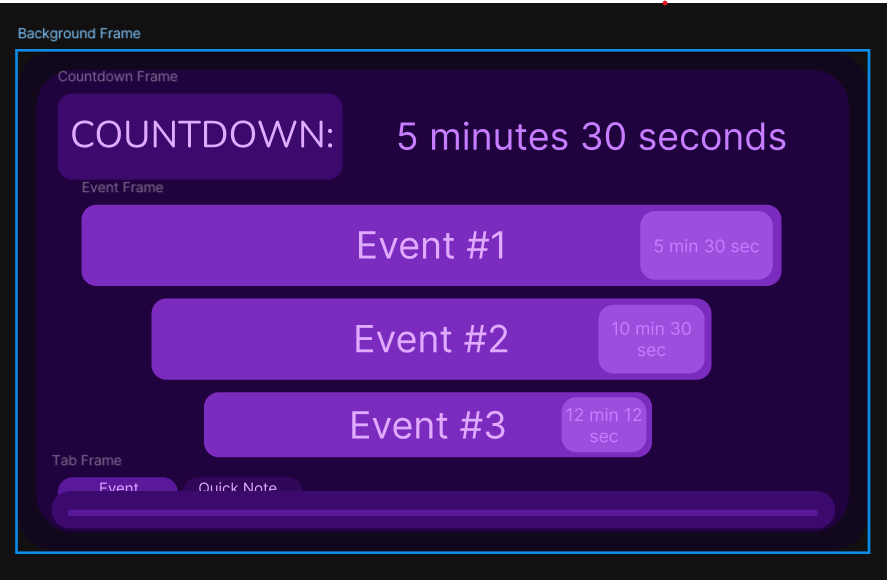
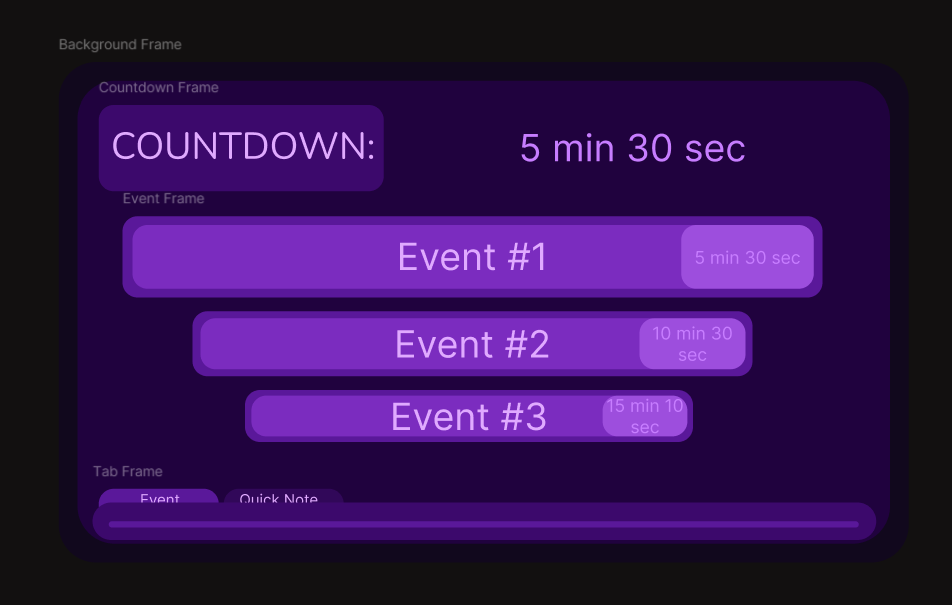
Updated images

diff --git a/src/gui/app.py b/src/gui/app.py
@@ -4,6 +4,7 @@ from widgets.frames import *
 from widgets.tabs import *
 from widgets.labels import *
 from widgets.events import *
+from widgets.buttons import EventButton
 
 # settings 
 set_default_appearance_mode()
@@ -58,25 +59,24 @@ class App(customtkinter.CTk):
         self.timer_label = TimerLabel(master=self.background_frame, text="5 Mins 30 Sec", text_color="#C77DFF")
         self.timer_label.place(x=350, y=30)
 
-        self.top_event_label = EventLabel(master=self.top_event_frame, text="Event #1")
-        self.top_event_label.place(relx=.25, rely=.5, anchor="e")
-
-        self.top_event_timer = TimerLabel(master=self.top_event_frame, text="5 Mins 30 Sec")
-        self.top_event_timer.place(relx=.5, rely=.5, anchor="w")
+        # self.top_event_timer = TimerLabel(master=self.top_event_frame, text="5 Mins 30 Sec")
+        # self.top_event_timer.place(relx=.5, rely=.5, anchor="w")
 
         self.sec_event_label = EventLabel(master=self.sec_event_frame, text="Event #2")
         self.sec_event_label.place(relx=.25, rely=.5, anchor="e")
 
-        self.sec_event_timer = TimerLabel(master=self.sec_event_frame, text="10 Mins 30 Sec")
-        self.sec_event_timer.place(relx=.5, rely=.5, anchor="w")
+        # self.sec_event_timer = TimerLabel(master=self.sec_event_frame, text="10 Mins 30 Sec")
+        # self.sec_event_timer.place(relx=.5, rely=.5, anchor="w")
 
         self.third_event_label = EventLabel(master=self.third_event_frame, text="Event #3")
         self.third_event_label.place(relx=.25, rely=.5, anchor="e")
 
-        self.third_event_timer = TimerLabel(master=self.third_event_frame, text="15 Mins 30 Sec")
-        self.third_event_timer.place(relx=.5, rely=.5, anchor="w")
+        # self.third_event_timer = TimerLabel(master=self.third_event_frame, text="15 Mins 30 Sec")
+        # self.third_event_timer.place(relx=.5, rely=.5, anchor="w")
 
         # button here
+        self.top_event_button = EventButton(master=self.top_event_frame, text="Event #1")
+        self.top_event_button.place(relx=.5, rely=.5, anchor="center")
 
 # app start running here
 app = App()

diff --git a/src/gui/widgets/buttons.py b/src/gui/widgets/buttons.py
@@ -1,0 +1,12 @@
+import customtkinter
+
+class EventButton(customtkinter.CTkButton):
+    def __init__(self, master, **kwargs):
+        super().__init__(master,
+                         fg_color="#7B2CBF",
+                         corner_radius=12,
+                         width=560,
+                         height=65,
+                         font=("Segeo", 30),
+                         hover="#9D4EDD",
+                         **kwargs)
